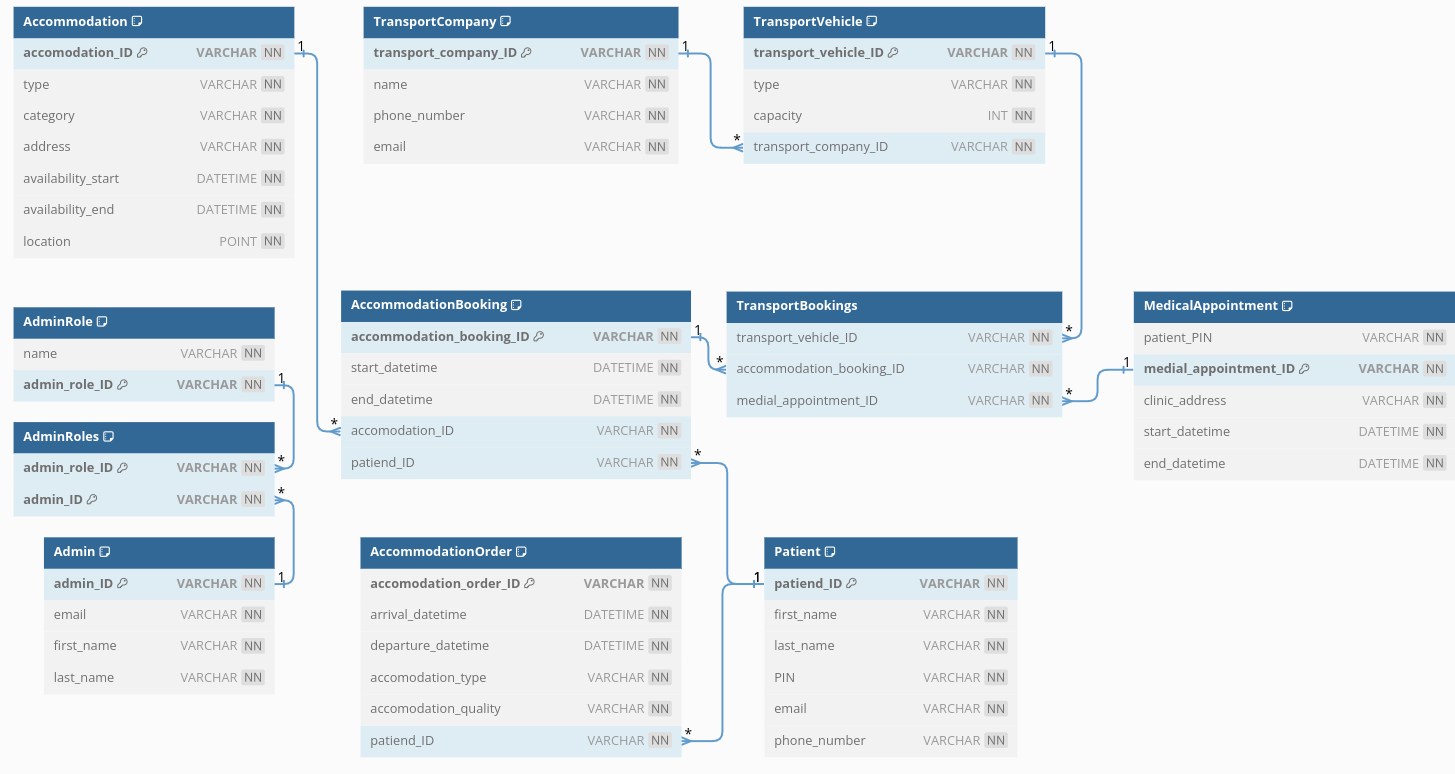
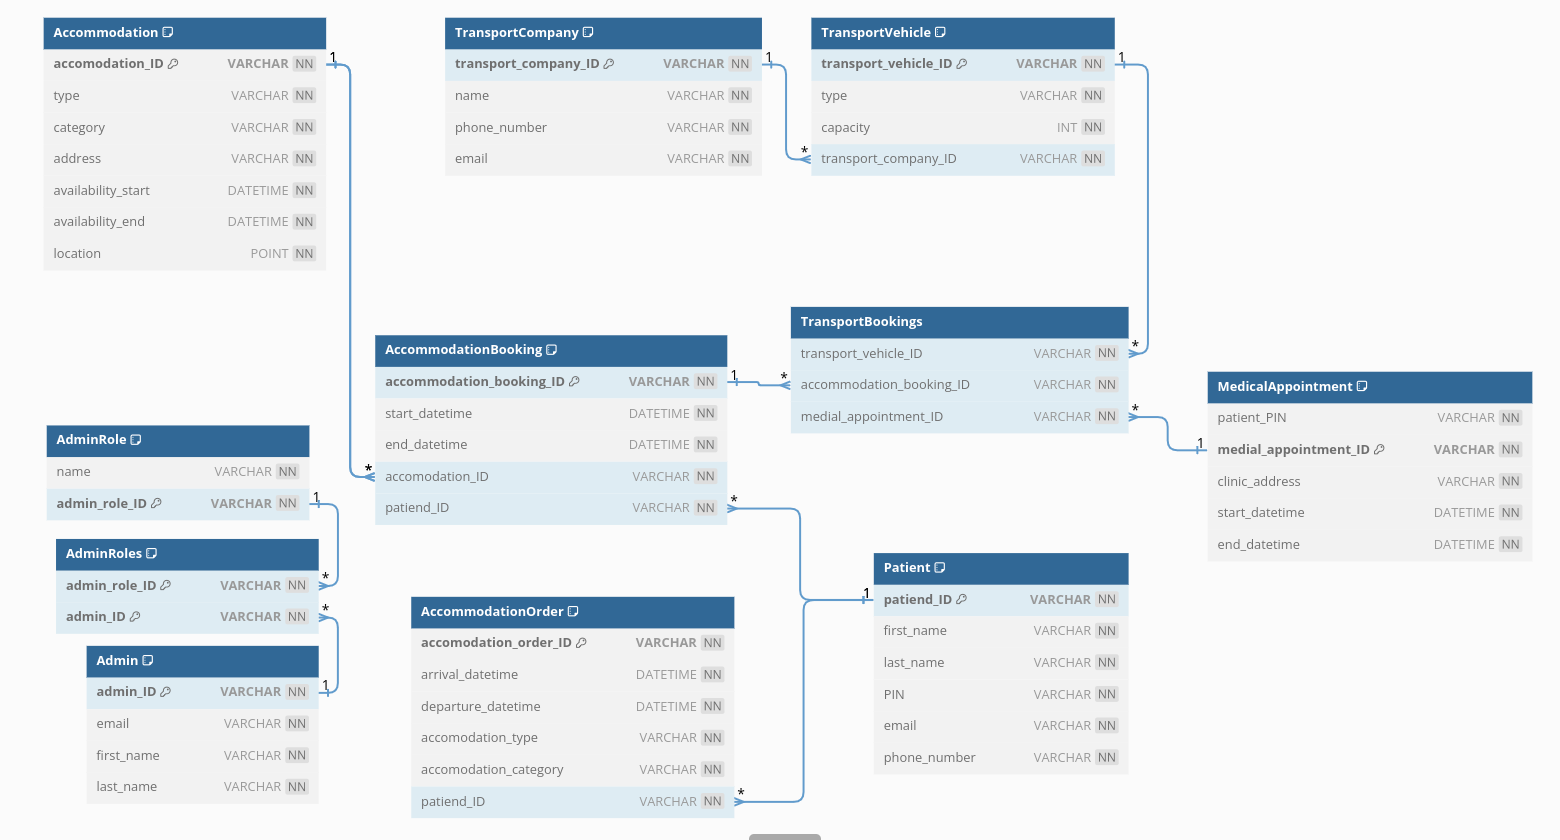
added DB description to docs

diff --git a/docs/Arhitektura.tex b/docs/Arhitektura.tex
@@ -35,12 +35,9 @@
 		
 			\subsection{Opis tablica}
 			
-
-				\textit{Svaku tablicu je potrebno opisati po zadanom predlošku. Lijevo se nalazi točno ime varijable u bazi podataka, u sredini se nalazi tip podataka, a desno se nalazi opis varijable. Svjetlozelenom bojom označite primarni ključ. Svjetlo plavom označite strani ključ}
-				\newline
 				
 				\noindent
-				\textbf{Patient} Ova entitet sadrži sve informacije o korisniku usluga našeg sustava. Kako su svi korisnici pacijenti odlučili smo ih imenovati tako. Entitet sadrži atribute: patient\_ID, first\_name, last\_name, PIN, email i phone\_number.
+				\textbf{Patient} Ova entitet sadrži sve informacije o korisniku usluga našeg sustava. Kako su svi korisnici pacijenti odlučili smo ih imenovati tako. Entitet sadrži atribute: patient\_ID, first\_name, last\_name, PIN, email i phone\_number. Ovaj entitet je u vezi \textit{One-to-Many} s entitetom AccommodationOrder preko atributa patient\_ID i u \textit{One-to-Many} s entitetom AccommodationBooking preko atributa patient\_ID.
 				
 				\begin{longtblr}[
 					label=none,
@@ -69,7 +66,8 @@
 				\end{longtblr}
 			
 				\noindent
-				\textbf{Accommodation}
+				\textbf{Accommodation} Ovaj entitet sadržava potrebne podatke o nekom smještaju koji je smještajni administrator unio. Entitet sadrži atribute: accommodation\_ID, type, category, address, availibility\_start, availability\_end i location. Ovaj entitet je u \textit{One-to-Many} vezi s entitetom AccommodationBooking preko atributa accommodation\_ID.
+				
 				\begin{longtblr}[
 					label=none,
 					entry=none
@@ -98,7 +96,7 @@
 				\end{longtblr}
 			
 			\noindent
-			\textbf{AccommodationOrder}
+			\textbf{AccommodationOrder} Ovaj entitet se koristi za pohravnjivanje pacijentovih zahtjeva o traženom smještaju. U slučaju da traženi smještaj nije odmah dostupan zahtjev se sprema kako bih se kasnije mogao opet pogledati. Entitet sadrži atribute: accommodation\_order\_ID, arrival\_datetime, departure\_datetime, accommodation\_type, accommodation\_category i patient\_ID. Ovaj entitet je u \textit{Many-to-One} vezi s entitetom Patient preko patient\_ID atributa.
 			\begin{longtblr}[
 				label=none,
 				entry=none
@@ -125,7 +123,7 @@
 			\end{longtblr}
 			
 			\noindent
-			\textbf{AccommodationBooking}
+			\textbf{AccommodationBooking} Ovaj vezni entitet se koristi za pohranjivanje informacije koji pacijent je kada u kojem smještaju. Entitet sadrži atribute: accommodation\_booking\_ID, start\_datetime, end\_datetime, accommodation\_ID, patient\_ID. Ovaj entitet je u \textit{Many-to-One} vezi s entitetom Accommodation preko atributa accommodation\_ID. U \textit{Many-to-One} vezi s entitetom Patient preko atributa patient\_ID. I u \textit{One-to-Many} s entitetom TransportBooking preko accommodation\_booking\_ID.
 			\begin{longtblr}[
 				label=none,
 				entry=none
@@ -151,91 +149,100 @@
 			\end{longtblr}
 			
 			\noindent
-			\textbf{TransportCompany}
+			\textbf{TransportCompany} Ovaj entitet sadržava informacije o transportnoj firmi. Entitet sadrži atribute: transport\_company\_ID, name, phone\_number, email. Ovaj entitet je u \textit{One-to-Many} vezi s entitetom TransportVehicle preko atributa transport\_company\_ID.
 			\begin{longtblr}[
 				label=none,
 				entry=none
 				]{
 					width = \textwidth,
-					colspec={|X[6,l]|X[6, l]|X[20, l]|}, 
+					colspec={|X[11,l]|X[6, l]|X[20, l]|}, 
 					rowhead = 1,
 				} %definicija širine tablice, širine stupaca, poravnanje i broja redaka naslova tablice
 				\hline 
-				\SetCell[c=3]{c}{\textbf{korisnik - ime tablice}}\\ 
+				\SetCell[c=3]{c}{\textbf{TransportCompany}}\\ 
 				\hline[3pt]
-				\SetCell{LightGreen}PK & type & \\ 
+				\SetCell{LightGreen}transport\_company\_ID & VARCHAR & primarni ključ tablice \\ 
 				\hline
-				fieldName & type & opis \\
+				name & VARCHAR & ime firme \\
 				\hline 
-				\SetCell{LightBlue} FK	& type & opis \\
+				phone\_number & VARCHAR & felefonski broj firme \\
+				\hline
+				email & VARCHAR & email firme \\
 				\hline 
 			\end{longtblr}
 			
 			\noindent
-			\textbf{TransportVehicle}
+			\textbf{TransportVehicle} Ovaj entitet sadržava informacije o nekom transportnom vozilu. Entitet sadrži atribute: transport\_comapny\_ID, name, phone\_number, email. Ovaj entitet je u \textit{Many-to-One} vezi s entitetom TransportCompany preko atributa transport\_company\_ID. I u \textit{One-to-Many} vezi s entitetom TransportBooking preko atributa transport\_vehicle\_ID.
 			\begin{longtblr}[
 				label=none,
 				entry=none
 				]{
 					width = \textwidth,
-					colspec={|X[6,l]|X[6, l]|X[20, l]|}, 
+					colspec={|X[11,l]|X[6, l]|X[20, l]|}, 
 					rowhead = 1,
 				} %definicija širine tablice, širine stupaca, poravnanje i broja redaka naslova tablice
 				\hline 
-				\SetCell[c=3]{c}{\textbf{korisnik - ime tablice}}\\ 
+				\SetCell[c=3]{c}{\textbf{TransportVehicle}}\\ 
 				\hline[3pt]
-				\SetCell{LightGreen}PK & type & \\ 
+				\SetCell{LightGreen}transport\_vehicle\_ID & VARCHAR & primarni ključ tablice \\ 
 				\hline
-				fieldName & type & opis \\
+				type & VARCHAR & vrsta vozila \\
 				\hline 
-				\SetCell{LightBlue} FK	& type & opis \\
+				capacity & INT & kapacitet vozila \\
+				\hline
+				\SetCell{LightBlue} transport\_company\_ID	& VARCHAR & transportna firma kojoj pripada ovo vozilo \\
 				\hline 
 			\end{longtblr}
 			
 			\noindent
-			\textbf{TransportBooking}
+			\textbf{TransportBooking} Ovo je slabi vezni entitet koji označava prijevoz pacijenta. Ujedinjuje tri entiteta iz kojih saznajem kojeg pacijenta treba voziti, od kuda će biti transportiran, koje vozilo će se korisiti i do koje klinike će se transportirati. Entitet sadrži atribute: transport\_vehicle\_ID, accommodation\_booking\_ID, medical\_appointment\_ID. Entitet je u \textit{Many-to-One} vezi s entitetom TransportVehicle preko atributa transport\_vehicle\_ID. U \textit{Many-to-One} vezi s entitetom AccommodationBooking preko atributa accommodaton\_booking\_ID. I u \textit{Many-to-One} vezi s entitetom MedicalAppointment preko atributa medical\_appointment\_ID.
 			\begin{longtblr}[
 				label=none,
 				entry=none
 				]{
 					width = \textwidth,
-					colspec={|X[6,l]|X[6, l]|X[20, l]|}, 
+					colspec={|X[11,l]|X[6, l]|X[20, l]|}, 
 					rowhead = 1,
 				} %definicija širine tablice, širine stupaca, poravnanje i broja redaka naslova tablice
 				\hline 
-				\SetCell[c=3]{c}{\textbf{korisnik - ime tablice}}\\ 
-				\hline[3pt]
-				\SetCell{LightGreen}PK & type & \\ 
+				\SetCell{LightBlue} transport\_vehicle\_ID & VARCHAR & vozilo koje obavlja ovaj projevoz \\
+				\hline 
+				\SetCell{LightBlue} accommodation\_
+				booking\_ID & VARCHAR & poveznica na smještaj i pacijenta koje treba prevesti iz tog smještaja \\
 				\hline
-				fieldName & type & opis \\
-				\hline 
-				\SetCell{LightBlue} FK	& type & opis \\
-				\hline 
+				\SetCell{LightBlue} medical\_
+				appointment\_ID & VARCHAR & poveznica na medicinski tretman koji nam daje informaciju gdje pacijenta treba voziti \\
+				\hline
 			\end{longtblr}
 			
 			\noindent
-			\textbf{MedicalAppointment}
+			\textbf{MedicalAppointment} Ovaj entitet korisimo za spremanje podataka o medicinskim tretmanima nekog pacijenta. Informacije o ovom ćemo dobiti iz medicinskog sustava, ali ako nije moguće odmah napravit TransportBooking zbog npr. nedostatka vozila, želimo pospremiti informacije o tretmanu. Entitet sadrži atribute: medical\_appointment\_ID, PIN, clinic\_address, start\_datetime, end\_datetime. Entitet je u \textit{One-to-One} vezi s entitetom TransportBooking preko atributa medical\_appointment\_ID. 
 			\begin{longtblr}[
 				label=none,
 				entry=none
 				]{
 					width = \textwidth,
-					colspec={|X[6,l]|X[6, l]|X[20, l]|}, 
+					colspec={|X[10,l]|X[6, l]|X[20, l]|}, 
 					rowhead = 1,
 				} %definicija širine tablice, širine stupaca, poravnanje i broja redaka naslova tablice
 				\hline 
-				\SetCell[c=3]{c}{\textbf{korisnik - ime tablice}}\\ 
+				\SetCell[c=3]{c}{\textbf{MedicalAppointment}}\\ 
 				\hline[3pt]
-				\SetCell{LightGreen}PK & type & \\ 
+				\SetCell{LightGreen}medical\_
+				appointment\_ID & VARCHAR & primarni ključ tablice \\ 
 				\hline
-				fieldName & type & opis \\
+				PIN & VARCHAR & Personal Identification Number pacijenta za kojeg je ovo medicinski tretman \\
 				\hline 
-				\SetCell{LightBlue} FK	& type & opis \\
-				\hline 
+				clinic\_address & VARCHAR & adresa klinike u kojoj je tretman \\
+				\hline
+				start\_datetime & DATETIME & datum i vrijeme početka tretmana \\
+				\hline
+				end\_datetime & DATETIME & datum i vrijeme kraja tretmana \\
+				\hline
 			\end{longtblr}
 			
 			\noindent
-			\textbf{AdminRole}
+			\textbf{AdminRole} Ovaj entitet označava role admina. Sadrži atribute, admin\_role\_ID i name. Entitet je u \textit{One-to-Many} vezi s entitetom AdminRoles preko atributa admin\_role\_ID. 
 			\begin{longtblr}[
 				label=none,
 				entry=none
@@ -245,19 +252,17 @@
 					rowhead = 1,
 				} %definicija širine tablice, širine stupaca, poravnanje i broja redaka naslova tablice
 				\hline 
-				\SetCell[c=3]{c}{\textbf{korisnik - ime tablice}}\\ 
+				\SetCell[c=3]{c}{\textbf{AdminRole}}\\ 
 				\hline[3pt]
-				\SetCell{LightGreen}PK & type & \\ 
+				\SetCell{LightGreen}admin\_role\_ID & VARCHAR & primarni ključ tablice \\ 
 				\hline
-				fieldName & type & opis \\
-				\hline 
-				\SetCell{LightBlue} FK	& type & opis \\
+				name & VARCHAR & deskriptivni naziv role \\
 				\hline 
 			\end{longtblr}
 		
 			
 			\noindent
-			\textbf{Admin}
+			\textbf{Admin} Ovaj entitet sadrži podatke o adminima. Entitet sadrži atribute: admin\_ID, email, first\_name, last\_name. Entitet je u \textit{One-to-Many} vezi s entitetom AdminRoles preko atributa admin\_ID. 
 			\begin{longtblr}[
 				label=none,
 				entry=none
@@ -267,18 +272,20 @@
 					rowhead = 1,
 				} %definicija širine tablice, širine stupaca, poravnanje i broja redaka naslova tablice
 				\hline 
-				\SetCell[c=3]{c}{\textbf{korisnik - ime tablice}}\\ 
+				\SetCell[c=3]{c}{\textbf{Admin}}\\ 
 				\hline[3pt]
-				\SetCell{LightGreen}PK & type & \\ 
+				\SetCell{LightGreen}admin\_ID & VARCHAR & primarni ključ tablice \\ 
 				\hline
-				fieldName & type & opis \\
+				email & VARCHAR & email admina \\
 				\hline 
-				\SetCell{LightBlue} FK	& type & opis \\
+				first\_name & VARCHAR & ime admina \\
+				\hline
+				last\_name & VARCHAR & prezime admina \\
 				\hline 
 			\end{longtblr}
 			
-			\noindent
-			\textbf{AdminRoles}
+			\noindent 
+			\textbf{AdminRoles} Ovaj vezni entitet služi kao spoj nekog admina s njegovom rolom. Atributi entiteta su: admin\_role\_ID i admin\_ID. Entitet je u \textit{Many-to-One} vezi s entitetom AdminRole preko atributa admin\_role\_ID. I entitet je u \textit{Many-to-One} vezi s entitetom Admin preko atributa admin\_ID.
 			\begin{longtblr}[
 				label=none,
 				entry=none
@@ -288,14 +295,12 @@
 					rowhead = 1,
 				} %definicija širine tablice, širine stupaca, poravnanje i broja redaka naslova tablice
 				\hline 
-				\SetCell[c=3]{c}{\textbf{korisnik - ime tablice}}\\ 
+				\SetCell[c=3]{c}{\textbf{AdminRoles}}\\ 
 				\hline[3pt]
-				\SetCell{LightGreen}PK & type & \\ 
+				\SetCell{LightBlue}admin\_role\_ID	& VARCHAR & poveznica na rolu ovog admina \\
+				\hline 
+				\SetCell{LightBlue}admin\_ID & VARCHAR & poveznica na kojeg admina se odnosi ova rola \\
 				\hline
-				fieldName & type & opis \\
-				\hline 
-				\SetCell{LightBlue} FK	& type & opis \\
-				\hline 
 			\end{longtblr}			
 				
 			

diff --git a/docs/Dnevnik_promjena_dokumentacije.tex b/docs/Dnevnik_promjena_dokumentacije.tex
@@ -19,6 +19,9 @@
 			0.3 & Dodani članovi tima i prva dva sastanaka. & Neven Lukić & 1.11.2023. \\[3pt]\hline
 			0.3.1 & Proširen opis projektnog zadatka.\newline Dodani funkcionalni zahtjevi. & Karla Šmuk & 04.11.2023. \\[3pt]\hline
 			
+			0.4 & Dodani opis baze, opis svih entiteta i ER dijagram baze podataka. & Neven Lukić & 16.11.2023 \\
+			\hline
+			
 			0.5 & Dodan \textit{Use Case} dijagram i jedan sekvencijski dijagram, funkcionalni i nefunkcionalni zahtjevi i dodatak A & * & 25.08.2013. \\[3pt] \hline 
 			
 			0.6 & Arhitektura i dizajn sustava, algoritmi i strukture podataka & * & 26.08.2013. \\[3pt] \hline 
